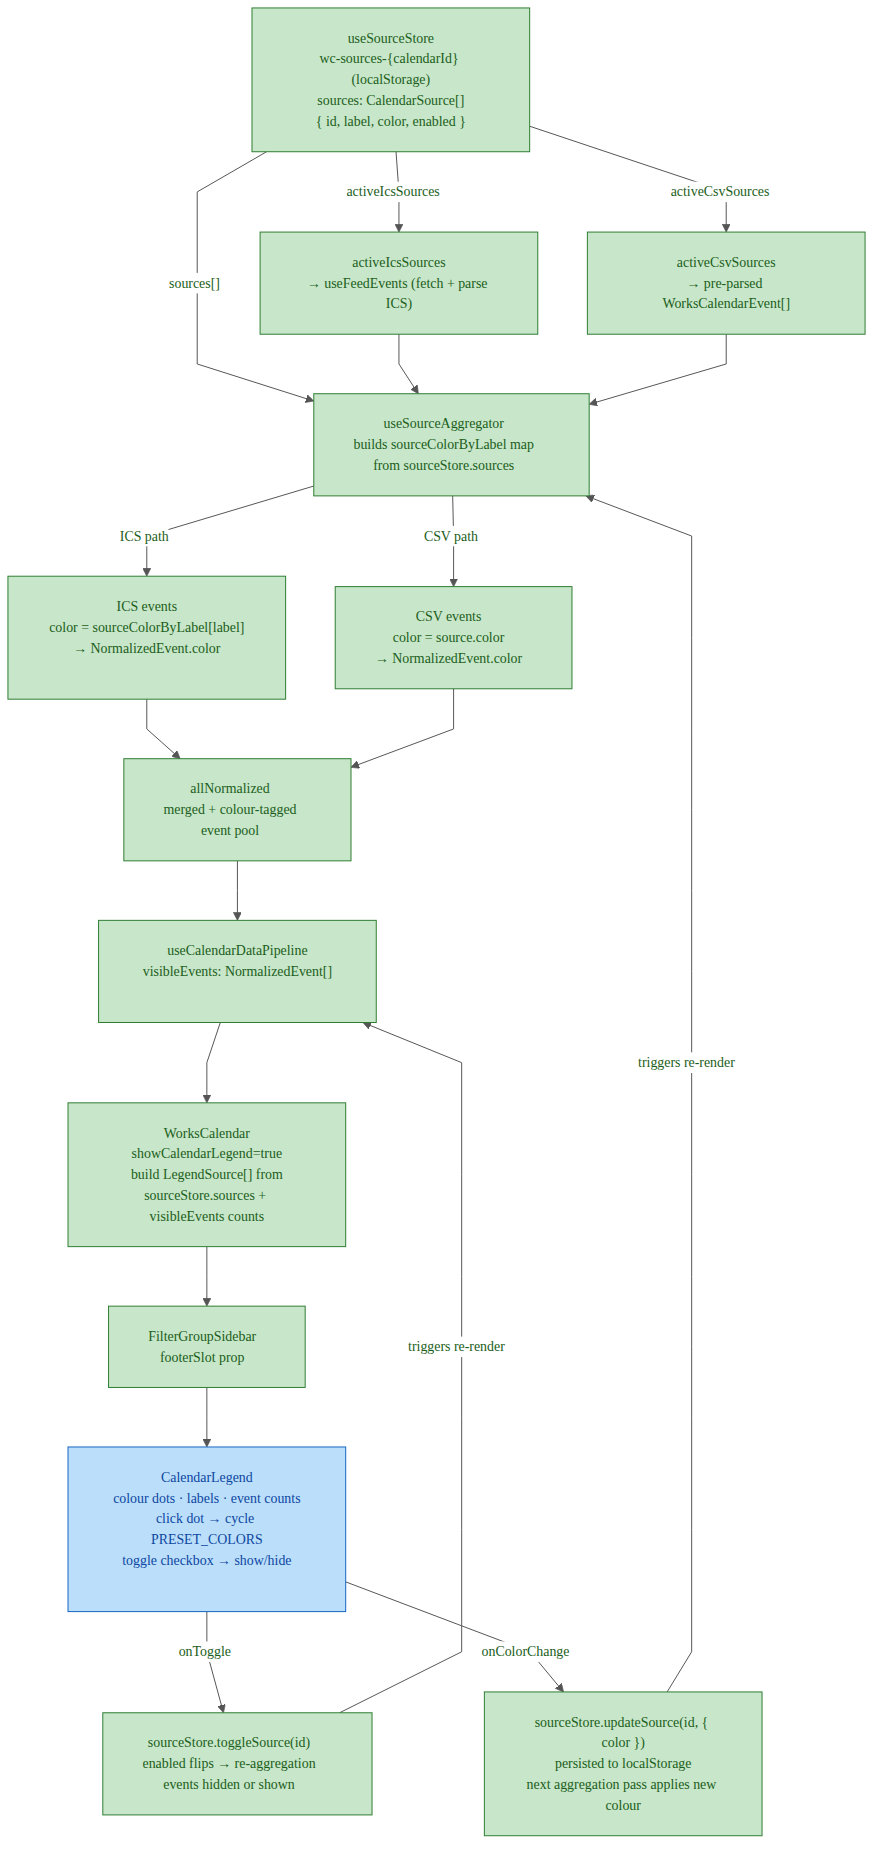
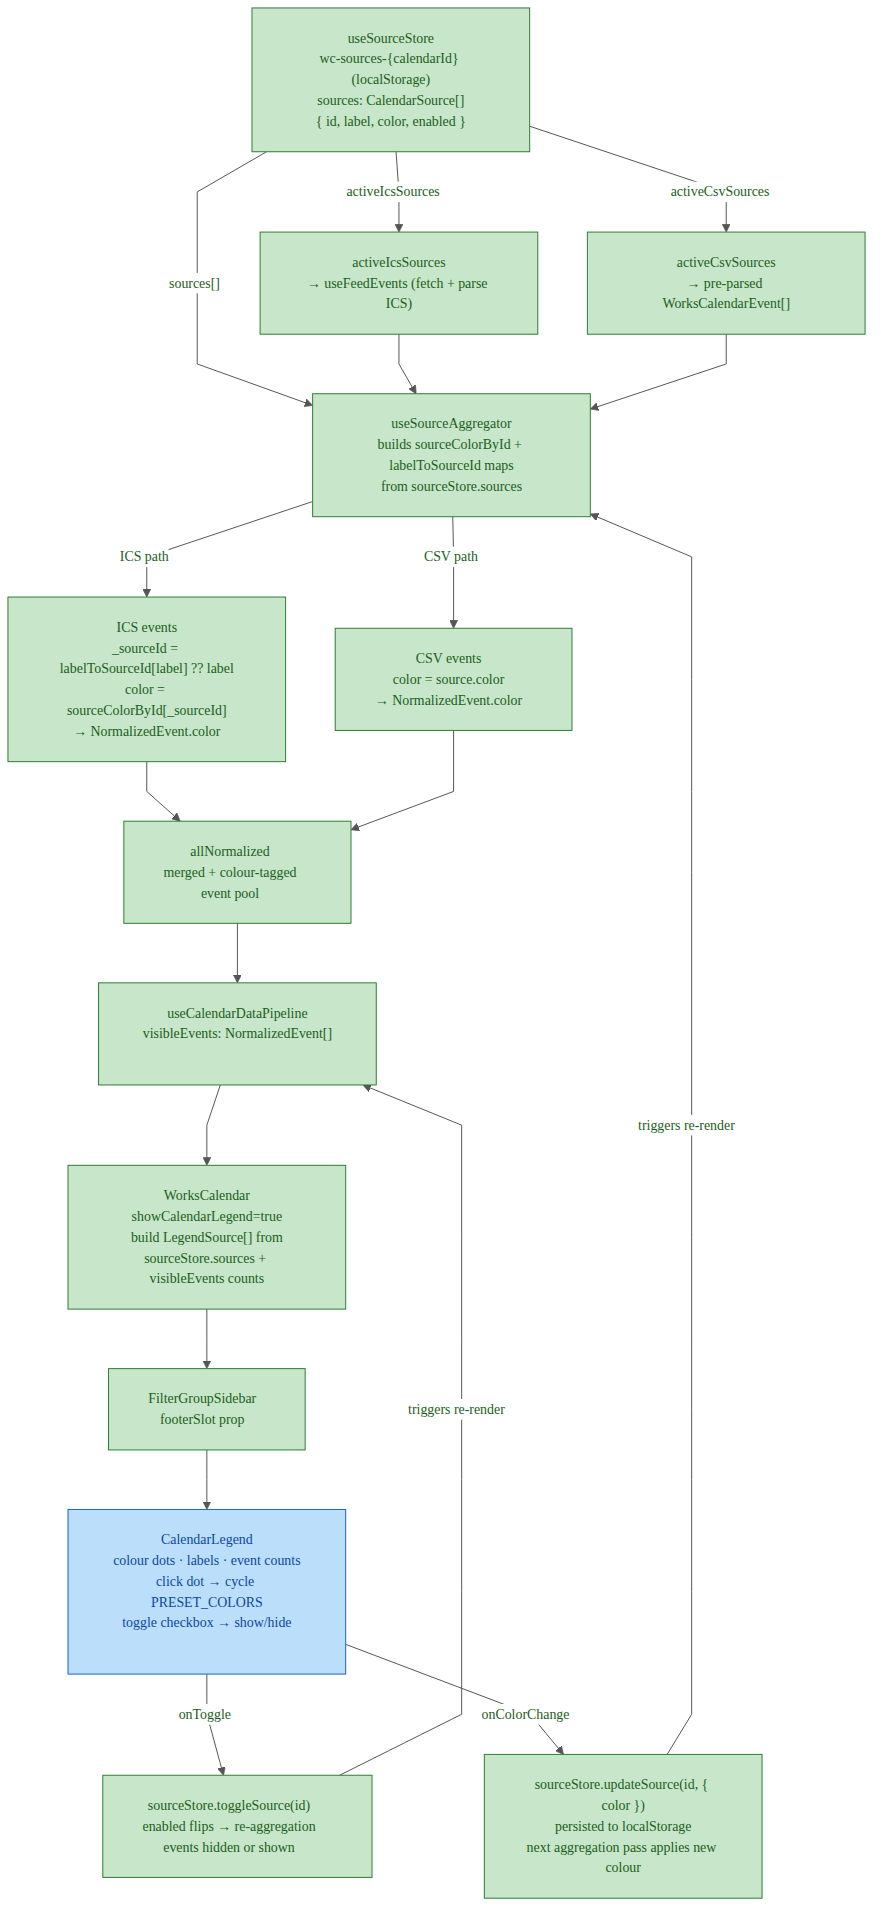
fix: three bugs found while diagramming Tier 3 data flows
1. useReminders: was receiving visibleEvents (post-filter), so reminders on
   filtered-out events would never fire. Switch to expandedEvents (pre-filter
   full event pool) so reminder delivery is independent of UI filter state.

2. useSourceAggregator: ICS events were tagged with _sourceId = label string
   instead of the store's UUID. CalendarLegend event counts compared against
   source.id (UUID), so ICS source counts always showed 0. Fix by building
   labelToSourceId + sourceColorById maps keyed by UUID; prop-level feeds
   without a store entry fall back to the label string.

3. docs/diagrams/level3i.mmd: updated to reflect labelToSourceId lookup path;
   DataFlowDiagrams.md key-invariants updated for both fixes.

https://claude.ai/code/session_017dDkZnWBapCCDDQwd7H3wG

diff --git a/src/hooks/useSourceAggregator.ts b/src/hooks/useSourceAggregator.ts
@@ -52,30 +52,35 @@ export function useSourceAggregator({ icalFeedsProp = [], sourceStore }: {
 
   const { feedEvents, feedErrors, isFetching: isFetchingFeeds } = useFeedEvents(allIcsFeeds);
 
-  // Build label→color map from all managed sources so ICS events inherit the
-  // color the user assigned to that feed in the source panel.
-  const sourceColorByLabel = useMemo(() => {
-    const m = new Map<string, string>();
+  // Build lookup maps from store sources so ICS events can be identified by
+  // their actual store ID rather than the mutable label string.
+  const { sourceColorById, labelToSourceId } = useMemo(() => {
+    const colorById = new Map<string, string>();
+    const labelToId = new Map<string, string>();
     for (const s of sourceStore.sources) {
-      if (s.label && s.color) m.set(s.label, s.color);
+      if (s.color) colorById.set(s.id, s.color);
+      if (s.label) labelToId.set(s.label, s.id);
     }
-    return m;
+    return { sourceColorById: colorById, labelToSourceId: labelToId };
   }, [sourceStore.sources]);
 
-  // Tag ICS events with source metadata and source color (when available)
+  // Tag ICS events with source metadata and source color (when available).
+  // Resolve _sourceId to the actual store ID when the feed is store-managed
+  // (matched by label); prop-level feeds fall back to their label string.
   const taggedFeedEvents = useMemo(
     () =>
       feedEvents.map((ev) => {
         const label = ev._feedLabel as string | undefined;
-        const sourceColor = label ? sourceColorByLabel.get(label) : undefined;
+        const resolvedId = (label ? labelToSourceId.get(label) : undefined) ?? label ?? 'ics';
+        const sourceColor = sourceColorById.get(resolvedId);
         return {
           ...ev,
-          _sourceId:    label ?? 'ics',
+          _sourceId:    resolvedId,
           _sourceLabel: label,
           ...(sourceColor ? { color: sourceColor } : {}),
         };
       }),
-    [feedEvents, sourceColorByLabel],
+    [feedEvents, sourceColorById, labelToSourceId],
   );
 
   // CSV source events — already parsed, apply source color when present

diff --git a/src/WorksCalendar.tsx b/src/WorksCalendar.tsx
@@ -294,7 +294,9 @@ const WorksCalendarImpl = forwardRef<CalendarApi, WorksCalendarProps>(function W
     setAvailabilityState, setScheduleEditorState, setScheduleOpen,
   });
 
-  useReminders(visibleEvents, onReminder);
+  // Use expandedEvents (pre-filter) so reminders fire even when the event is
+  // currently hidden by an active filter condition.
+  useReminders(expandedEvents, onReminder);
 
   const api = useMemo((): CalendarApi => ({
     navigateTo:       (date)  => cal.setCurrentDate(date),

diff --git a/docs/DataFlowDiagrams.md b/docs/DataFlowDiagrams.md
@@ -201,9 +201,10 @@ Data flow from `useSourceStore` (localStorage) through `useSourceAggregator` (co
 ![3i — Multi-Calendar Source Colors and Legend](diagrams/level3i.png)
 
 **Key invariants**
-- Source colours are keyed by `label` for ICS feeds (since ICS events only carry the feed label, not an internal ID) and by direct `source.color` for CSV sources.
+- `useSourceAggregator` builds two maps from `sourceStore.sources`: `labelToSourceId` (label → store UUID) and `sourceColorById` (store UUID → colour). ICS events resolve their `_sourceId` via `labelToSourceId` so store-managed feeds carry their actual UUID — not the mutable label string. Prop-level `icalFeeds` have no store entry and fall back to the label string as `_sourceId`.
 - Toggling a source (`toggleSource`) flips `enabled` in the store; the next `useSourceAggregator` memo pass omits its events, which propagates through `useCalendarDataPipeline` to `visibleEvents` in a single render cycle.
 - Changing a colour (`updateSource`) persists to `localStorage` immediately; the legend updates on the same render that triggers re-aggregation.
+- Reminders are scheduled against `expandedEvents` (the pre-filter pool), not `visibleEvents`, so a reminder fires even when its event is currently hidden by an active filter condition.
 
 ---
 